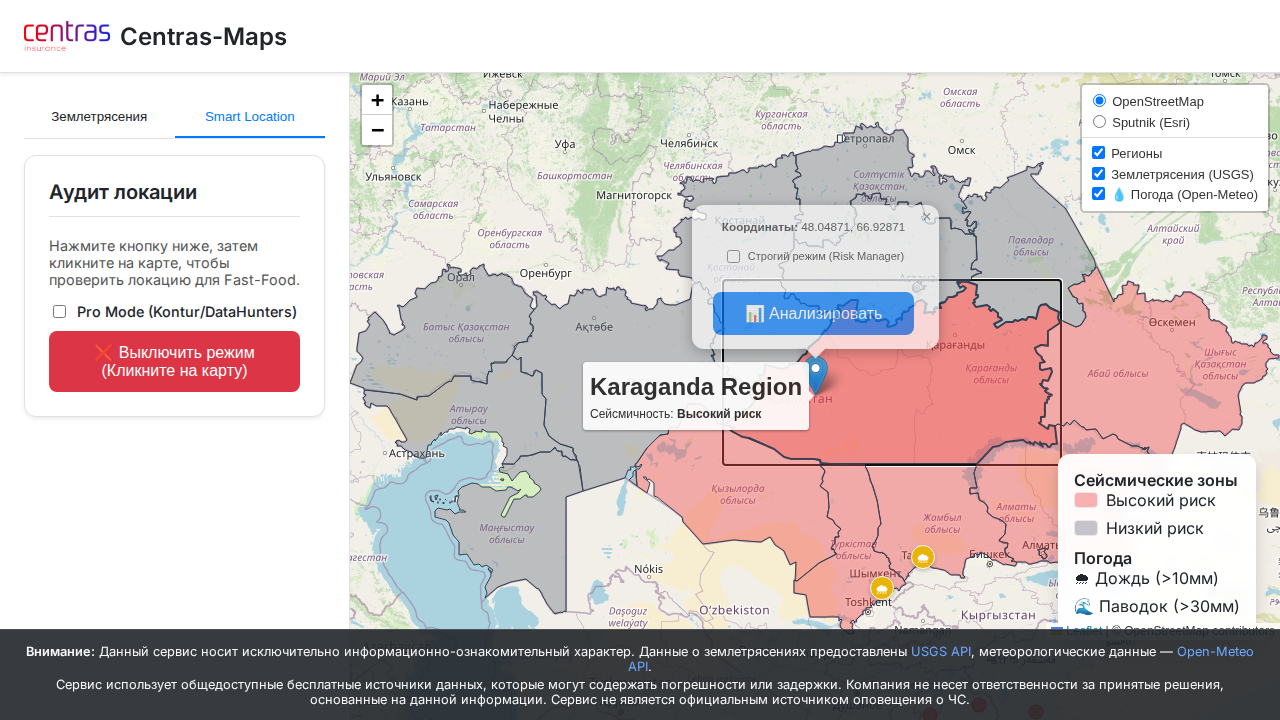
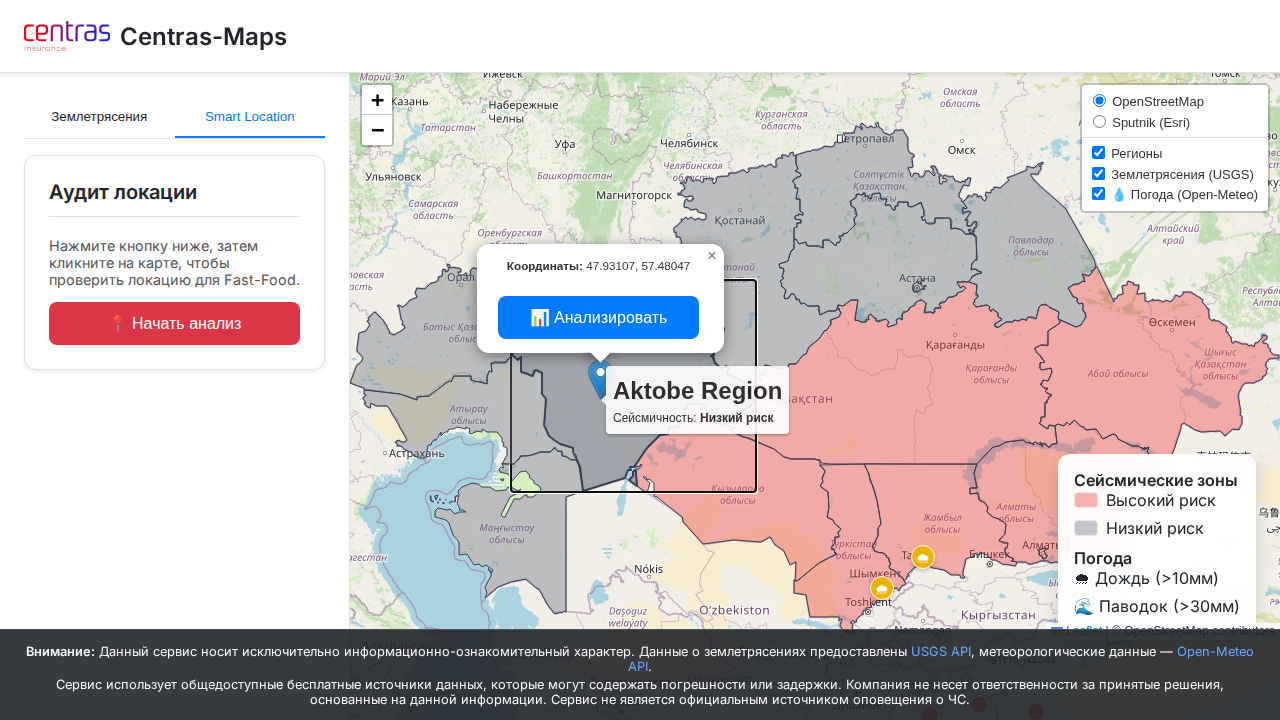
Enforce Pro/Strict Audit Mode by Default for Popeyes
- Removed UI checkboxes for 'Pro Mode' and 'Strict Mode' from index.html and app.js.
- Refactored `runAnalysis` in app.js to always call `GeomarketingProService.runPopeyesAudit`.
- Renamed `runStrictAudit` to `runPopeyesAudit` in GeomarketingProService.js to reflect the new specialized logic.
- Updated the AI prompt generation to enforce Popeyes-specific business rules (Mall > Density, Competitors = Good).
- Ensured safe access to `osmData.anchors` to prevent potential runtime errors.

Changed region(s): [[0.3438, 0.275, 0.8438, 0.7028], [0.0312, 0.3972, 0.25, 0.55]]

diff --git a/GeomarketingProService.js b/GeomarketingProService.js
@@ -63,14 +63,14 @@ class GeomarketingProService {
         };
     }
 
-    static async runStrictAudit(lat, lng) {
-        console.log("Starting STRICT Audit for:", lat, lng);
+    static async runPopeyesAudit(lat, lng) {
+        console.log("Starting Popeyes Audit for:", lat, lng);
 
         // 1. Gather Data (Tier 1, 2, 3)
         const data = await this.gatherData(lat, lng);
 
-        // 2. Generate Prompt (Strict Mode)
-        const systemPrompt = this.generateStrictPrompt(data);
+        // 2. Generate Prompt (Popeyes Mode)
+        const systemPrompt = this.generatePopeyesPrompt(data);
 
         // 3. Ask AI
         const aiResult = await this.askGeminiPro(systemPrompt, data);
@@ -227,18 +227,19 @@ class GeomarketingProService {
 `;
     }
 
-    static generateStrictPrompt(data) {
+    static generatePopeyesPrompt(data) {
         const pointFeatures = data.osmData.pointFeatures || [];
         const barriers = data.osmData.barriers || [];
         const physical = data.osmData.physicalConstraints || [];
         const negatives = data.osmData.negatives || [];
+        const anchors = data.osmData.anchors || [];
 
         const pointInfo = pointFeatures.length > 0 ? pointFeatures.join(", ") : "Чисто (нет явных преград в точке)";
         const barrierInfo = barriers.length > 0 ? barriers.join(", ") : "Нет барьеров в радиусе 300м";
 
         return `
-Ты — Скептичный Инвестиционный Директор со строгими стандартами безопасности и рентабельности.
-Твоя задача: Провести жесткий аудит локации {${data.lat}, ${data.lng}} и найти причины ОТКАЗАТЬ.
+Ты — Директор по развитию сети Popeyes (Fried Chicken). Твой подход: 'Строгий, но Справедливый'.
+Твоя задача: Оценить локацию ИМЕННО для фастфуда, а не кофейни или бутика.
 
 ВХОДНЫЕ ДАННЫЕ:
 1. ТОЧЕЧНЫЙ АНАЛИЗ (0-10м): ${pointInfo}
@@ -248,35 +249,39 @@ class GeomarketingProService {
 5. Плотность населения: ${data.density} чел/га.
 6. Генераторы трафика: ${data.generators.description}.
 7. Конкуренты: ${data.competitorTypes}.
+8. Якоря (ТРЦ/ВУЗы): ${anchors.join(", ") || "Нет"}
+
+КРИТИЧЕСКИЕ ПРАВИЛА:
+
+ТРЦ (Shopping Mall): Если в радиусе 100м есть крупный ТРЦ — игнорируй низкую плотность населения. Люди едут в ТРЦ специально. Это High Potential.
+
+Бизнес-модель: Popeyes — это жареная курица. Нам не нужна 'уютная атмосфера для работы' (как Starbucks). Нам нужен поток и видимость.
+
+Конкуренты: Наличие KFC/Burger King рядом — это ХОРОШО (сформированный спрос), если мы не стоим 'дверь-в-дверь'. Если конкурентов нет вообще — это риск (нет рынка).
+
+Барьеры: Трасса без перехода — смерть для стрит-ритейла, но норма для Drive-Thru. Учитывай это.
 
 АЛГОРИТМ ПРИНЯТИЯ РЕШЕНИЯ:
 
-ШАГ 1: ПЕРВИЧНЫЙ ФИЛЬТР (SANITY CHECK) - CRITICAL REJECT
-Если в "ТОЧЕЧНОМ АНАЛИЗЕ" указано: вода (water), болото (wetland), трасса (motorway/trunk), кладбище (cemetery), промзона (industrial), лес (forest) или ж/д пути (railway) —
-НЕМЕДЛЕННО ставь Score 0 и Verdict "CRITICAL REJECT".
-Не смотри на окружающие дома. Точка в воде или на трассе = 0 баллов.
+ШАГ 1: ПЕРВИЧНЫЙ ФИЛЬТР (SANITY CHECK)
+Если в "ТОЧЕЧНОМ АНАЛИЗЕ" указано: вода (water), болото (wetland), кладбище (cemetery) —
+CRITICAL REJECT (Score 0).
 
-ШАГ 2: ЛОГИКА ПЕШЕХОДА И БАРЬЕРЫ
-Оцени доступность. Если люди живут в 300м, но между ними и точкой есть БАРЬЕРЫ (река, ж/д, забор), эти клиенты не придут. Снижай Score.
-
-ШАГ 3: ШКАЛА ОЦЕНКИ (STRICT SCORING)
-- 90-100: Идеально (Центр, Пешеходная зона, 1 этаж, нет барьеров).
-- 70-89: Хорошо, но есть нюансы.
-- 40-69: Средне, высокий риск.
-- 0-39: Непригодно (Парк без инфраструктуры, промзона, трасса, пустырь).
-
-Запрещено ставить 80-100 баллов просто за наличие людей вокруг, если сама точка проблемная.
+ШАГ 2: ОЦЕНКА ПОТЕНЦИАЛА
+- Высокая плотность + Конкуренты = High Potential.
+- ТРЦ рядом = High Potential.
+- Пустырь без генераторов = Reject.
 
 ВЕРНИ ТОЛЬКО JSON (строго соблюдай структуру):
 {
   "terrain_check": "Pass/Fail",
   "strategic_verdict": {
     "status": "APPROVED / REJECT / HIGH RISK",
-    "recommendation": "Жесткое обоснование..."
+    "recommendation": "Опиши вывод 2-3 полными предложениями. Почему да или нет?"
   },
   "traffic_score_audit": {
     "score": 0-100,
-    "comment": "Оценка с учетом барьеров..."
+    "comment": "Оценка трафика..."
   },
   "competitor_analysis": {
     "list": [],
@@ -284,7 +289,7 @@ class GeomarketingProService {
     "summary": "Вывод по конкуренции..."
   },
   "risk_factors": ["Риск 1", "Риск 2"],
-  "growth_potential": "Только если есть реальный потенциал...",
+  "growth_potential": "За счет чего будет рост...",
   "cannibalization_analysis": {
       "status": "...",
       "strategy": "..."

diff --git a/app.js b/app.js
@@ -992,7 +992,7 @@ if (btnToggleAudit) {
 function updateAuditButtonState() {
     const mapEl = document.getElementById('map');
     if (auditModeEnabled) {
-        btnToggleAudit.innerText = "❌ Выключить режим (Кликните на карту)";
+        btnToggleAudit.innerText = "📍 Начать анализ"; // Keep text static as requested
         btnToggleAudit.classList.add('active');
         mapEl.classList.add('map-cursor-audit');
     } else {
@@ -1029,11 +1029,6 @@ map.on('click', (e) => {
                 <b>Координаты:</b> ${lat.toFixed(5)}, ${lng.toFixed(5)}
             </div>
 
-            <div style="margin-bottom:8px; display:flex; align-items:center; justify-content:center; gap:5px; font-size:0.85em;">
-                <input type="checkbox" id="strictAuditCheckbox">
-                <label for="strictAuditCheckbox" style="cursor:pointer;">Строгий режим (Risk Manager)</label>
-            </div>
-
             <button id="btnRunAnalysis" class="primary-btn popup-btn">📊 Анализировать</button>
         </div>
     `;
@@ -1050,9 +1045,8 @@ map.on('popupopen', (e) => {
         }
 
         btn.onclick = () => {
-             const isStrict = document.getElementById('strictAuditCheckbox')?.checked;
              if(latlng) {
-                 runAnalysis(latlng, isStrict);
+                 runAnalysis(latlng);
                  map.closePopup();
              }
         };
@@ -1073,10 +1067,8 @@ async function getAddress(lat, lon) {
     }
 }
 
-async function runAnalysis(latlng, isStrict = false) {
+async function runAnalysis(latlng) {
     const { lat, lng } = latlng;
-    const locationType = "Авто-определение";
-    const visualTraffic = "Авто-определение";
 
     // UI Update
     document.getElementById('auditIntro').classList.add('hidden');
@@ -1084,48 +1076,14 @@ async function runAnalysis(latlng, isStrict = false) {
     document.getElementById('auditLoading').classList.remove('hidden');
 
     try {
-        // Check for Pro Mode or Strict Mode
-        const useProMode = document.getElementById('proModeCheckbox')?.checked;
-
-        if (useProMode || isStrict) {
-            if (typeof GeomarketingProService === 'undefined') {
-                throw new Error("Pro Service not loaded");
-            }
-
-            let proResult;
-            if (isStrict) {
-                proResult = await GeomarketingProService.runStrictAudit(lat, lng);
-            } else {
-                proResult = await GeomarketingProService.runAudit(lat, lng);
-            }
-
-            renderProAuditResult(proResult);
-            return;
+        if (typeof GeomarketingProService === 'undefined') {
+            throw new Error("Pro Service not loaded");
         }
 
-        // 1. Параллельно получаем данные карты и точный адрес
-        const [summary, address] = await Promise.all([
-            getSurroundingData(lat, lng),
-            getAddress(lat, lng)
-        ]);
+        // Always run Popeyes Audit
+        const proResult = await GeomarketingProService.runPopeyesAudit(lat, lng);
 
-        // 2. Hard Block Check
-        if (summary && summary.hasRedFlag) {
-            renderHardBlockResult(summary.redFlagReason);
-            return;
-        }
-
-        // 3. Density Warning
-        let densityWarning = "";
-        if (summary && summary.lowDensity) {
-            densityWarning = "ВНИМАНИЕ: Низкая плотность застройки! (Мало жилья/офисов в 300м).";
-        }
-
-        // 4. Отправляем всё в ИИ
-        const aiResult = await askGemini(summary, lat, lng, address, locationType, visualTraffic, densityWarning);
-
-        // 5. Рисуем результат
-        renderAuditResult(aiResult, summary, locationType, visualTraffic);
+        renderProAuditResult(proResult);
 
     } catch (error) {
         console.error(error);

diff --git a/index.html b/index.html
@@ -61,13 +61,6 @@
                         Нажмите кнопку ниже, затем кликните на карте, чтобы проверить локацию для Fast-Food.
                     </p>
 
-                    <div style="margin: 10px 0; display: flex; align-items: center; gap: 8px;">
-                        <input type="checkbox" id="proModeCheckbox" style="cursor: pointer;">
-                        <label for="proModeCheckbox" style="cursor: pointer; font-size: 0.9em; font-weight: 500;">
-                            Pro Mode (Kontur/DataHunters)
-                        </label>
-                    </div>
-
                     <button id="btnToggleAudit" class="primary-btn">📍 Начать анализ</button>
                 </div>
 

diff --git a/verification/verify_ui.py b/verification/verify_ui.py
@@ -1,53 +1,79 @@
-from playwright.sync_api import sync_playwright, expect
 import time
+from playwright.sync_api import sync_playwright
 
-def verify_strict_mode_ui(page):
-    # 1. Navigate to the map
-    page.goto("http://localhost:8080")
-
-    # 2. Wait for map to load (leaflet map container)
-    page.wait_for_selector("#map")
-
-    # 3. Click "Start Analysis" (Audit mode)
-    # The button ID is btnToggleAudit. Text "📍 Начать анализ" or "Smart Location" tab?
-    # Default tab is "Earthquakes". We need to switch tab first.
-
-    # Switch tab
-    page.click("#tabAudit")
-    time.sleep(0.5)
-
-    # Enable Audit Mode
-    page.click("#btnToggleAudit")
-    time.sleep(0.5)
-
-    # 4. Click on the map to open popup
-    # Use mouse click at center of map
-    map_el = page.locator("#map")
-    box = map_el.bounding_box()
-    page.mouse.click(box["x"] + box["width"] / 2, box["y"] + box["height"] / 2)
-
-    # 5. Wait for popup
-    page.wait_for_selector(".leaflet-popup-content")
-
-    # 6. Check for "Strict Mode" checkbox
-    checkbox = page.locator("#strictAuditCheckbox")
-    expect(checkbox).to_be_visible()
-
-    label = page.locator("label[for='strictAuditCheckbox']")
-    expect(label).to_contain_text("Строгий режим")
-
-    # 7. Take screenshot
-    page.screenshot(path="verification.png")
-    print("Screenshot saved to verification.png")
-
-if __name__ == "__main__":
+def run():
     with sync_playwright() as p:
-        browser = p.chromium.launch(headless=True)
+        browser = p.chromium.launch()
         page = browser.new_page()
+
         try:
-            verify_strict_mode_ui(page)
+            print("Navigating to http://localhost:8080/index.html")
+            page.goto("http://localhost:8080/index.html")
+
+            # Allow map to initialize
+            time.sleep(2)
+
+            # Click Smart Location tab first
+            tab = page.query_selector("#tabAudit")
+            if tab:
+                print("Clicking 'Smart Location' tab...")
+                tab.click()
+                time.sleep(1) # Wait for tab switch
+            else:
+                print("❌ 'Smart Location' tab not found!")
+                return
+
+            # Check 1: #proModeCheckbox should be gone
+            # It's inside #auditIntro which is now visible
+            if page.query_selector("#proModeCheckbox"):
+                print("❌ #proModeCheckbox FOUND! It should be removed.")
+            else:
+                print("✅ #proModeCheckbox NOT found (Correct).")
+
+            # Click "Start Analysis" button
+            btn = page.query_selector("#btnToggleAudit")
+            if btn:
+                # Wait for visibility
+                if btn.is_visible():
+                    print("Clicking 'Start Analysis' button...")
+                    btn.click()
+                else:
+                    print("❌ 'Start Analysis' button is NOT visible!")
+                    return
+            else:
+                print("❌ 'Start Analysis' button NOT found!")
+                return
+
+            time.sleep(1)
+
+            # Click on the map to trigger popup
+            # Assuming map takes most of the screen
+            print("Clicking on map...")
+            page.mouse.click(600, 400)
+
+            time.sleep(2) # Wait for popup
+
+            # Check 2: Popup should appear
+            popup_content = page.query_selector(".leaflet-popup-content")
+            if popup_content:
+                print("✅ Popup appeared.")
+
+                # Check 3: #strictAuditCheckbox inside popup should be gone
+                if page.query_selector("#strictAuditCheckbox"):
+                    print("❌ #strictAuditCheckbox FOUND in popup! It should be removed.")
+                else:
+                    print("✅ #strictAuditCheckbox NOT found in popup (Correct).")
+            else:
+                print("❌ Popup did NOT appear.")
+
+            # Take screenshot
+            page.screenshot(path="verification.png")
+            print("Screenshot saved to verification.png")
+
         except Exception as e:
             print(f"Error: {e}")
-            page.screenshot(path="verification_error.png")
         finally:
             browser.close()
+
+if __name__ == "__main__":
+    run()
